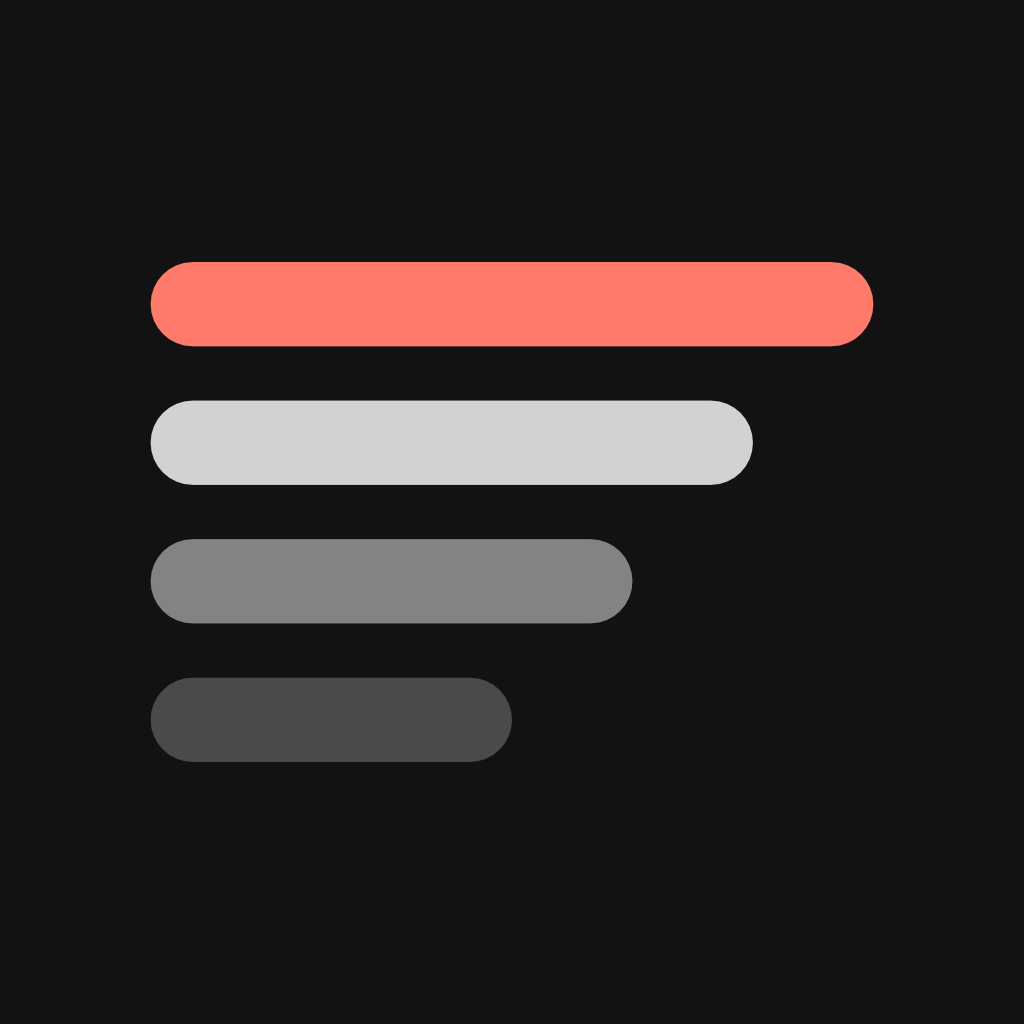
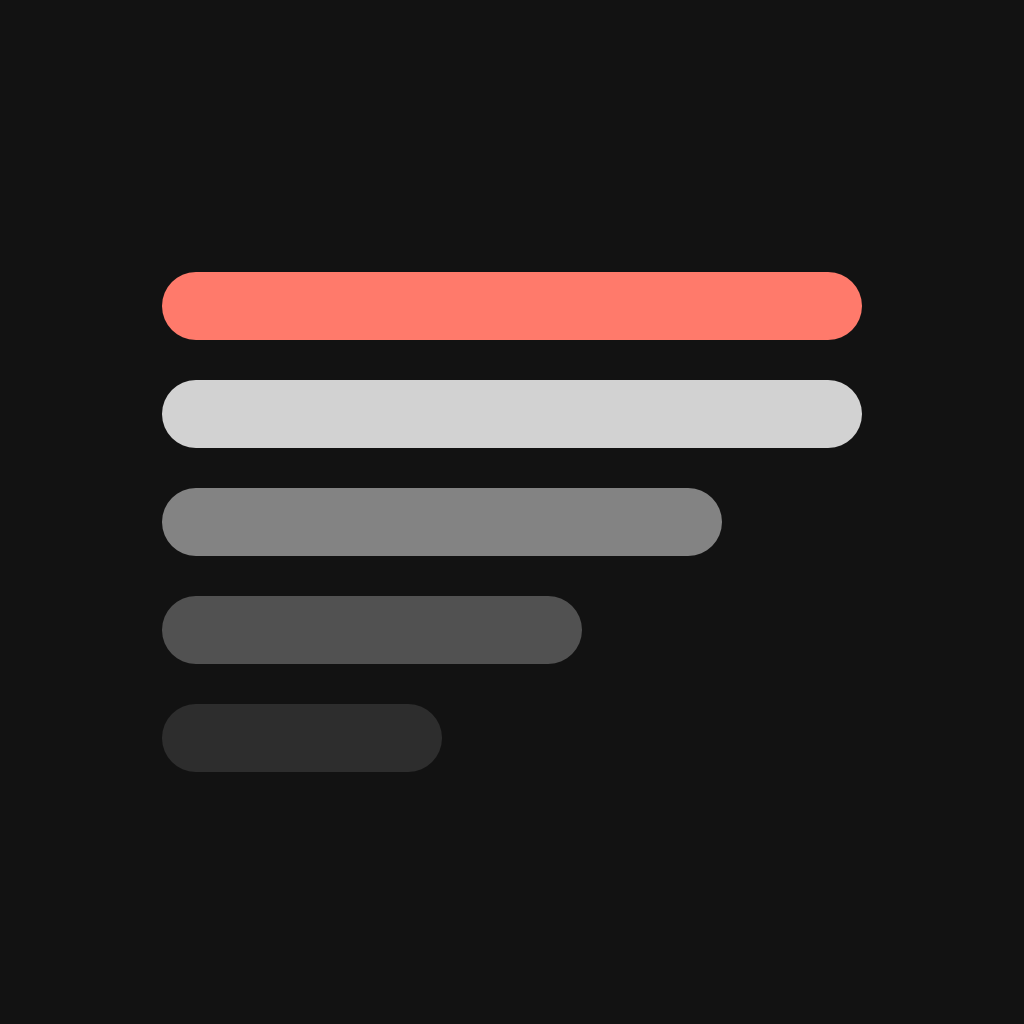
name change

Changed region(s): [[0.125, 0.25, 0.875, 0.7812]]

diff --git a/app.config.js b/app.config.js
@@ -42,23 +42,23 @@ validateEasBuildEnv();
 
 module.exports = {
   expo: {
-    name: "Beacon",
-    slug: "beacon",
+    name: "Phora",
+    slug: "phora",
     version,
     orientation: "portrait",
     icon: "./assets/images/icon.png",
-    scheme: "beacon",
+    scheme: "phora",
     userInterfaceStyle: "automatic",
     ios: {
       supportsTablet: true,
-      bundleIdentifier: "com.brannonglover.beacon",
+      bundleIdentifier: "com.brannonglover.phora",
       buildNumber,
       infoPlist: {
         ITSAppUsesNonExemptEncryption: false,
       },
     },
     android: {
-      package: "com.brannonglover.beacon",
+      package: "com.brannonglover.phora",
       adaptiveIcon: {
         backgroundColor: "#E6F4FE",
         foregroundImage: "./assets/images/android-icon-foreground.png",
@@ -98,7 +98,7 @@ module.exports = {
     },
     extra: {
       eas: {
-        projectId: "c006783f-187e-46e7-aa7c-38c7a5e3848a",
+        projectId: "9eb5a4d0-6798-4ce0-91b7-319092b0e4c0",
       },
       supabaseUrl: process.env.EXPO_PUBLIC_SUPABASE_URL,
       supabaseAnonKey: process.env.EXPO_PUBLIC_SUPABASE_ANON_KEY,

diff --git a/backend/app/page.tsx b/backend/app/page.tsx
@@ -5,8 +5,8 @@ export default function Home() {
 
   return (
     <main style={{ fontFamily: 'system-ui, sans-serif', padding: 32, maxWidth: 560 }}>
-      <h1>Beacon API</h1>
-      <p>RSS ingestion backend for the Beacon reader app.</p>
+      <h1>Phora API</h1>
+      <p>RSS ingestion backend for the Phora reader app.</p>
       <p>
         <strong>{status.articleCount}</strong> articles cached
         {status.lastIngestAt ? (

diff --git a/backend/lib/db.ts b/backend/lib/db.ts
@@ -9,8 +9,8 @@ import { Article, Topic } from './types';
 const dataDir = path.join(process.cwd(), 'data');
 // Vercel serverless only allows writes under /tmp; data/ is read-only there.
 const defaultDbPath = process.env.VERCEL
-  ? path.join('/tmp', 'beacon.db')
-  : path.join(dataDir, 'beacon.db');
+  ? path.join('/tmp', 'phora.db')
+  : path.join(dataDir, 'phora.db');
 
 function resolveDbPath(): string {
   return process.env.DATABASE_PATH ?? defaultDbPath;

diff --git a/backend/lib/normalize.publishedAt.test.ts b/backend/lib/normalize.publishedAt.test.ts
@@ -39,7 +39,7 @@ test('parseFeedPublishedAt parses valid RSS dates', () => {
 });
 
 test('upsertArticle preserves published_at when feed has no publish date', () => {
-  const dir = mkdtempSync(path.join(tmpdir(), 'beacon-db-'));
+  const dir = mkdtempSync(path.join(tmpdir(), 'phora-db-'));
   const previousPath = process.env.DATABASE_PATH;
   process.env.DATABASE_PATH = path.join(dir, 'test.db');
   resetDbConnectionForTests();
@@ -73,7 +73,7 @@ test('upsertArticle preserves published_at when feed has no publish date', () =>
 });
 
 test('upsertArticle updates published_at when feed provides a new date', () => {
-  const dir = mkdtempSync(path.join(tmpdir(), 'beacon-db-'));
+  const dir = mkdtempSync(path.join(tmpdir(), 'phora-db-'));
   const previousPath = process.env.DATABASE_PATH;
   process.env.DATABASE_PATH = path.join(dir, 'test.db');
   resetDbConnectionForTests();

diff --git a/services/trendingNotificationState.ts b/services/trendingNotificationState.ts
@@ -1,7 +1,7 @@
 import AsyncStorage from '@react-native-async-storage/async-storage';
 
-const PREFIX = '@beacon/trending-notified/';
-const LAST_SENT_PREFIX = '@beacon/trending-notified-at/';
+const PREFIX = '@phora/trending-notified/';
+const LAST_SENT_PREFIX = '@phora/trending-notified-at/';
 const MAX_STORED_IDS = 300;
 
 /** Max trending alerts per hour when the user has no like-based personalization. */

diff --git a/app/(auth)/welcome.tsx b/app/(auth)/welcome.tsx
@@ -19,7 +19,7 @@ export default function WelcomeScreen() {
         },
       ]}>
       <View style={styles.hero}>
-        <Text style={[styles.brand, { color: colors.text }]}>Beacon</Text>
+        <Text style={[styles.brand, { color: colors.text }]}>Phora</Text>
         <Text style={[themeStyles.headline, styles.tagline, { color: colors.text }]}>
           Stories worth your time
         </Text>

diff --git a/app/(tabs)/index.tsx b/app/(tabs)/index.tsx
@@ -136,7 +136,7 @@ export default function LatestScreen() {
           source={require('@/assets/images/logo.png')}
           style={styles.brandLogo}
           contentFit="contain"
-          accessibilityLabel="Beacon"
+          accessibilityLabel="Phora"
         />
       }
       emptyMessage={emptyMessage}

diff --git a/backend/lib/extract.ts b/backend/lib/extract.ts
@@ -6,7 +6,7 @@ import { Article } from './types';
 const FETCH_TIMEOUT_MS = 15_000;
 
 const USER_AGENT =
-  'Mozilla/5.0 (compatible; BeaconReader/1.0; +https://github.com/brannonglover/current)';
+  'Mozilla/5.0 (compatible; PhoraReader/1.0; +https://github.com/brannonglover/current)';
 
 export interface ReaderContent {
   title: string;

diff --git a/backend/lib/ingest.ts b/backend/lib/ingest.ts
@@ -18,7 +18,7 @@ const MAX_FEED_REDIRECTS = 5;
 
 const PARSER_HEADERS = {
   Accept: 'application/rss+xml, application/xml, text/xml, */*',
-  'User-Agent': 'BeaconReader/1.0 (+https://github.com/brannonglover/current)',
+  'User-Agent': 'PhoraReader/1.0 (+https://github.com/brannonglover/current)',
 };
 
 const INSECURE_TLS_AGENT = new https.Agent({ rejectUnauthorized: false });

diff --git a/components/FeedbackModal.tsx b/components/FeedbackModal.tsx
@@ -48,7 +48,7 @@ export function FeedbackModal({ visible, onClose, userName, userEmail }: Feedbac
     ].filter(Boolean);
 
     const body = [trimmed, '', '---', ...contextLines].join('\n');
-    const mailto = `mailto:${FEEDBACK_EMAIL}?subject=${encodeURIComponent('Beacon app feedback')}&body=${encodeURIComponent(body)}`;
+    const mailto = `mailto:${FEEDBACK_EMAIL}?subject=${encodeURIComponent('Phora app feedback')}&body=${encodeURIComponent(body)}`;
 
     setIsSending(true);
     try {

diff --git a/contexts/ThemeContext.tsx b/contexts/ThemeContext.tsx
@@ -12,7 +12,7 @@ import { useColorScheme as useSystemColorScheme } from 'react-native';
 export type ThemePreference = 'light' | 'dark' | 'system';
 export type ColorScheme = 'light' | 'dark';
 
-const THEME_PREFERENCE_KEY = '@beacon/theme-preference';
+const THEME_PREFERENCE_KEY = '@phora/theme-preference';
 
 interface ThemeContextValue {
   preference: ThemePreference;

diff --git a/services/storage.ts b/services/storage.ts
@@ -3,7 +3,7 @@ import AsyncStorage from '@react-native-async-storage/async-storage';
 import { normalizeFeedPreferences } from '@/services/feedPreferences';
 import { Topic, UserPreferences } from '@/types';
 
-const PREFS_PREFIX = '@beacon/prefs/';
+const PREFS_PREFIX = '@phora/prefs/';
 
 const DEFAULT_TOPIC_SCORES: Record<Topic, number> = {
   technology: 0,